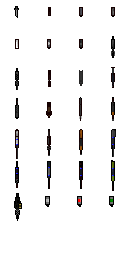
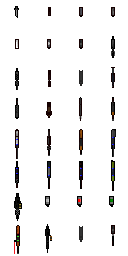
Added 4 new weapons: - Glock 18 Automatic - AS-VAL - BAR (pending ground graphics) - Kriss-Vector (pending ground graphics)

diff --git a/jge/Projects/cspsp/src/BuyMenu.cpp b/jge/Projects/cspsp/src/BuyMenu.cpp
@@ -8,7 +8,7 @@ JRenderer* BuyMenu::mRenderer = NULL;
 //------------------------------------------------------------------------------------------------
 BuyMenu::BuyMenu(Person* player, Gun guns[])
 {
-	for (int i=0; i<28; i++) {
+	for (int i=0; i<32; i++) {
 		mGuns[i] = guns[i];
 	}
 
@@ -45,6 +45,8 @@ BuyMenu::BuyMenu(Person* player, Gun guns[])
 			mCategories[CT][PISTOLS].buttons.push_back(Button(i,guns[i].mName));
 		}
 	}
+	mCategories[T][PISTOLS].buttons.push_back(Button(31,guns[31].mName));
+	mCategories[CT][PISTOLS].buttons.push_back(Button(31,guns[31].mName));
 	for (int i=7; i<=8; i++) {
 		mCategories[T][SHOTGUNS].buttons.push_back(Button(i,guns[i].mName));
 		mCategories[CT][SHOTGUNS].buttons.push_back(Button(i,guns[i].mName));
@@ -61,6 +63,8 @@ BuyMenu::BuyMenu(Person* player, Gun guns[])
 			mCategories[CT][SMG].buttons.push_back(Button(i,guns[i].mName));
 		}
 	}	
+	mCategories[T][SMG].buttons.push_back(Button(29,guns[29].mName));
+	mCategories[CT][SMG].buttons.push_back(Button(29,guns[29].mName));
 	for (int i=14; i<=23; i++) {
 		if (i == 14 || i == 17 || i == 19 || i == 21) {
 			mCategories[CT][RIFLES].buttons.push_back(Button(i,guns[i].mName));
@@ -73,8 +77,12 @@ BuyMenu::BuyMenu(Person* player, Gun guns[])
 			mCategories[CT][RIFLES].buttons.push_back(Button(i,guns[i].mName));
 		}
 	}	
+	mCategories[T][RIFLES].buttons.push_back(Button(28,guns[28].mName));
+	mCategories[CT][RIFLES].buttons.push_back(Button(28,guns[28].mName));
 	mCategories[T][MACHINEGUNS].buttons.push_back(Button(24,guns[24].mName));
 	mCategories[CT][MACHINEGUNS].buttons.push_back(Button(24,guns[24].mName));
+	mCategories[T][MACHINEGUNS].buttons.push_back(Button(30,guns[30].mName));
+	mCategories[CT][MACHINEGUNS].buttons.push_back(Button(30,guns[30].mName));
 
 	for (int i=25; i<=27; i++) {
 		mCategories[T][EQUIPMENT].buttons.push_back(Button(i,guns[i].mName));
@@ -319,23 +327,23 @@ void BuyMenu::Render()
 			value = mGuns[id].mDamage;
 			min = 5;
 			max = 40;
-			if (id >= 1 && id <= 6) { //pistols
+			if ((id >= 1 && id <= 6) || id == 31) { //pistols
 			}
 			else if (id >= 7 && id <= 8) { //shotguns
 				if (id == 7) value *= 6;
 				else if (id == 8) value *= 4;
 				max = 100;
 			}
-			else if (id >= 9 && id <= 13) { //smgs
+			else if ((id >= 9 && id <= 13) || id == 29) { //smgs
 			}
 			else if (id == 16 || (id >= 21 && id <= 23)) { //snipers
 				max = 100;
 			}
-			else if (id >= 14 && id <= 20) { //rifles
+			else if ((id >= 14 && id <= 20) || id == 28) { //rifles
 			}
-			else if (id == 24) { //machine guns
+			else if (id == 24 || id == 30) { //machine guns
 			}
-			else if (id >= 25) { //nades
+			else if (id >= 25 && id <= 27) { //nades
 				max = 100;
 			}
 			width = 90*((value-min)/(max-min));
@@ -352,20 +360,20 @@ void BuyMenu::Render()
 			value = M_PI-mGuns[id].mSpread;
 			min = M_PI_2+M_PI_4/2;
 			max = M_PI;
-			if (id >= 1 && id <= 6) { //pistols
+			if ((id >= 1 && id <= 6) || id == 31) { //pistols
 			}
 			else if (id >= 7 && id <= 8) { //shotguns
 			}
-			else if (id >= 9 && id <= 13) { //smgs
+			else if ((id >= 9 && id <= 13) || id == 29) { //smgs
 			}
 			else if (id == 16 || (id >= 21 && id <= 23)) { //snipers
 				min = 0;
 			}
-			else if (id >= 14 && id <= 20) { //rifles
+			else if ((id >= 14 && id <= 20) || id == 28) { //rifles
 			}
-			else if (id == 24) { //machine guns
+			else if (id == 24 || id == 30) { //machine guns
 			}
-			else if (id >= 25) { //nades
+			else if (id >= 25 && id <= 27) { //nades
 				value = 0;
 			}
 
@@ -381,23 +389,23 @@ void BuyMenu::Render()
 			value = 2000-mGuns[id].mDelay;
 			min = 1850;
 			max = 1950;
-			if (id >= 1 && id <= 6) { //pistols
+			if ((id >= 1 && id <= 6) || id == 31) { //pistols
 			}
 			else if (id >= 7 && id <= 8) { //shotguns
 				min = 500;
 				max = 3000;
 			}
-			else if (id >= 9 && id <= 13) { //smgs
+			else if ((id >= 9 && id <= 13) || id == 29) { //smgs
 			}
 			else if (id == 16 || (id >= 21 && id <= 23)) { //snipers
 				min = 250;
 				max = 3500;
 			}
-			else if (id >= 14 && id <= 20) { //rifles
+			else if ((id >= 14 && id <= 20) || id == 28) { //rifles
 			}
-			else if (id == 24) { //machine guns
+			else if (id == 24 || id == 30) { //machine guns
 			}
-			else if (id >= 25) { //nades
+			else if (id >= 25 && id <= 27) { //nades
 				value = 0;
 			}
 			width = 90*((value-min)/(max-min));

diff --git a/jge/Projects/cspsp/src/GameStateLoading.cpp b/jge/Projects/cspsp/src/GameStateLoading.cpp
@@ -262,12 +262,40 @@ int GameStateLoading::Load(int stage) {
 				sscanf(s,"%d %d %d %f %d %d %d %f %f %f %d %d %s",&gun.mId,&gun.mDamage,&gun.mDelay,&gun.mSpread,&gun.mClip,&gun.mNumClips,&gun.mReloadDelay,&gun.mSpeed,&gun.mBulletSpeed,&gun.mViewAngle,&gun.mCost,&gun.mType,gun.mName);
 				gun.mHandQuad = gGunHandQuads[gun.mId];
 				gun.mGroundQuad = gGunGroundQuads[gun.mId];
+				if (gun.mId == 28) {
+					gun.mHandQuad = gGunHandQuads[17];
+					gun.mGroundQuad = gGunGroundQuads[17];
+				}
+				else if (gun.mId == 29) {
+					gun.mHandQuad = gGunHandQuads[11];
+					gun.mGroundQuad = gGunGroundQuads[11];
+				}
+				else if (gun.mId == 30) {
+					gun.mHandQuad = gGunHandQuads[24];
+					gun.mGroundQuad = gGunGroundQuads[24];
+				}
+				else if (gun.mId == 31) {
+					gun.mHandQuad = gGunHandQuads[1];
+					gun.mGroundQuad = gGunGroundQuads[1];
+				}
 				gGuns[i] = gun;
 
 				//strcpy(gGuns[i].mName,name);
 				char buffer[128];
 
-				if (gGuns[i].mId == 25 || gGuns[i].mId == 26 || gGuns[i].mId == 27) {
+				if (gGuns[i].mId == 28) {
+					gGuns[i].mFireSound = mSoundSystem->LoadSample("sfx/m4a1.wav"); // AS-VAL (ID 28) -> M4A1 (ID 17)
+				}
+				else if (gGuns[i].mId == 29) {
+					gGuns[i].mFireSound = mSoundSystem->LoadSample("sfx/mp5.wav"); // KRISS-VECTOR (ID 29) -> MP5 (ID 11)
+				}
+				else if (gGuns[i].mId == 30) {
+					gGuns[i].mFireSound = mSoundSystem->LoadSample("sfx/m249.wav"); // BAR (ID 30) -> M249 (ID 24)
+				}
+				else if (gGuns[i].mId == 31) {
+					gGuns[i].mFireSound = mSoundSystem->LoadSample("sfx/glock.wav"); // GLOCK18AUTO (ID 31) -> GLOCK (ID 1)
+				}
+				else if (gGuns[i].mId == 25 || gGuns[i].mId == 26 || gGuns[i].mId == 27) {
 					gGuns[i].mFireSound = gPinPullSound;
 				}
 				else {
@@ -275,7 +303,19 @@ int GameStateLoading::Load(int stage) {
 					gGuns[i].mFireSound = mSoundSystem->LoadSample(buffer);
 				}
 
-				if (gGuns[i].mId != 0 && gGuns[i].mId != 25 && gGuns[i].mId != 26 && gGuns[i].mId != 27) {
+				if (gGuns[i].mId == 28) {
+					gGuns[i].mReloadSound = mSoundSystem->LoadSample("sfx/m4a1reload.wav"); // AS-VAL (ID 28) -> M4A1 (ID 17)
+				}
+				else if (gGuns[i].mId == 29) {
+					gGuns[i].mReloadSound = mSoundSystem->LoadSample("sfx/mp5reload.wav"); // KRISS-VECTOR (ID 29) -> MP5 (ID 11)
+				}
+				else if (gGuns[i].mId == 30) {
+					gGuns[i].mReloadSound = mSoundSystem->LoadSample("sfx/m249reload.wav"); // BAR (ID 30) -> M249 (ID 24)
+				}
+				else if (gGuns[i].mId == 31) {
+					gGuns[i].mReloadSound = mSoundSystem->LoadSample("sfx/glockreload.wav"); // GLOCK18AUTO (ID 31) -> GLOCK (ID 1)
+				}
+				else if (gGuns[i].mId != 0 && gGuns[i].mId != 25 && gGuns[i].mId != 26 && gGuns[i].mId != 27) {
 					sprintf(buffer,"sfx/%sreload.wav",gGuns[i].mName);
 					gGuns[i].mReloadSound = mSoundSystem->LoadSample(buffer);
 				}

diff --git a/jge/Projects/cspsp/src/GameStatePlay.cpp b/jge/Projects/cspsp/src/GameStatePlay.cpp
@@ -30,7 +30,7 @@ void GameStatePlay::Create()
 
 	//mWinner = NONE;
 
-	for (int i=0; i<28; i++) {
+	for (int i=0; i<32; i++) {
 		mGuns[i] = gGuns[i];
 	}
 
@@ -369,7 +369,8 @@ void GameStatePlay::CheckInput(float dt)
 	if (mEngine->GetButtonState(PSP_CTRL_CROSS) && !cross)
 	{
 		bool fire = true;
-		if (mPlayer->mGunIndex == SECONDARY) {
+		// Glock 18 Auto (ID 31) repeats while Cross is held; other secondaries are semi-automatic.
+		if (mPlayer->mGunIndex == SECONDARY && mPlayer->GetCurrentGun()->mGun->mId != 31) {
 			if (mPlayer->mHasFired) {
 				fire = false;
 			}

diff --git a/jge/Projects/cspsp/src/AI.h b/jge/Projects/cspsp/src/AI.h
@@ -45,7 +45,7 @@ protected:
 public:
 	AStar* mAStar;
 	Grid* mGrid;
-	Gun (*mGameGuns)[28];
+	Gun (*mGameGuns)[32];
 	//std::vector<CollisionPoint>* mCollisionPoints;
 
 	AI(JQuad* quads[], JQuad* deadquad, std::vector<Bullet*>* bullets, std::vector<GunObject*>* guns, std::vector<Node*> nodes, int team, char* name, int movementstyle);

diff --git a/jge/Projects/cspsp/src/Globals.h b/jge/Projects/cspsp/src/Globals.h
@@ -57,7 +57,7 @@ extern JLBFont* gHudFont;
 extern JQuad* gBgQuad;
 extern JQuad* gLogoQuad;
 
-extern Gun gGuns[28];
+extern Gun gGuns[32];
 extern JQuad** gGunHandQuads;
 extern JQuad** gGunGroundQuads;
 extern JQuad* gPlayersQuads[2][4][NUM_QUADS];

diff --git a/jge/Projects/cspsp/src/Globals.cpp b/jge/Projects/cspsp/src/Globals.cpp
@@ -27,7 +27,7 @@ JLBFont* gHudFont;
 JQuad* gBgQuad;
 JQuad* gLogoQuad;
 
-Gun gGuns[28];
+Gun gGuns[32];
 JQuad** gGunHandQuads;
 JQuad** gGunGroundQuads;
 JQuad* gPlayersQuads[2][4][NUM_QUADS];

diff --git a/jge/Projects/cspsp/src/Game.h b/jge/Projects/cspsp/src/Game.h
@@ -66,7 +66,7 @@ protected:
 public:
 	int mGameType;
 
-	Gun mGuns[28];
+	Gun mGuns[32];
 	//JGE* mEngine;
 	int mRoundFreezeTime;
 	int mRoundTime;

diff --git a/jge/Projects/cspsp/src/BuyMenu.h b/jge/Projects/cspsp/src/BuyMenu.h
@@ -34,7 +34,7 @@ private:
 
 	Person* mPlayer;
 	int mChoice;
-	Gun mGuns[28];
+	Gun mGuns[32];
 
 	float angle;
 
